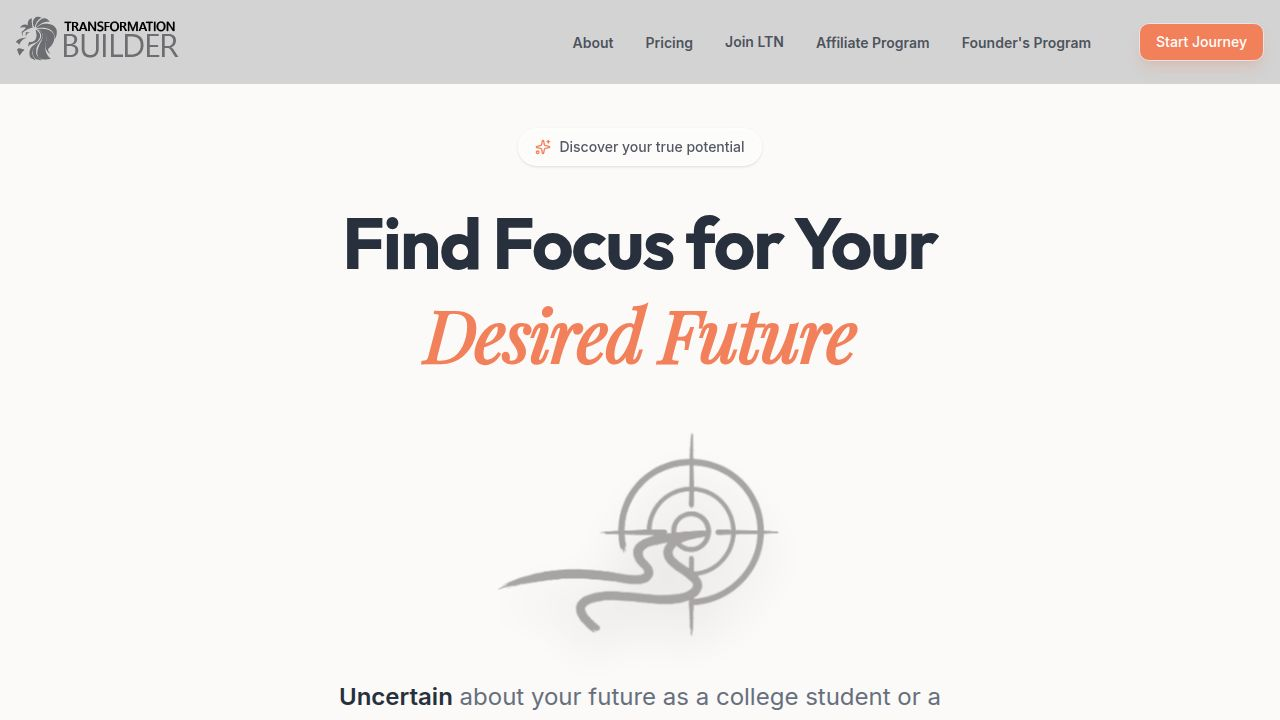
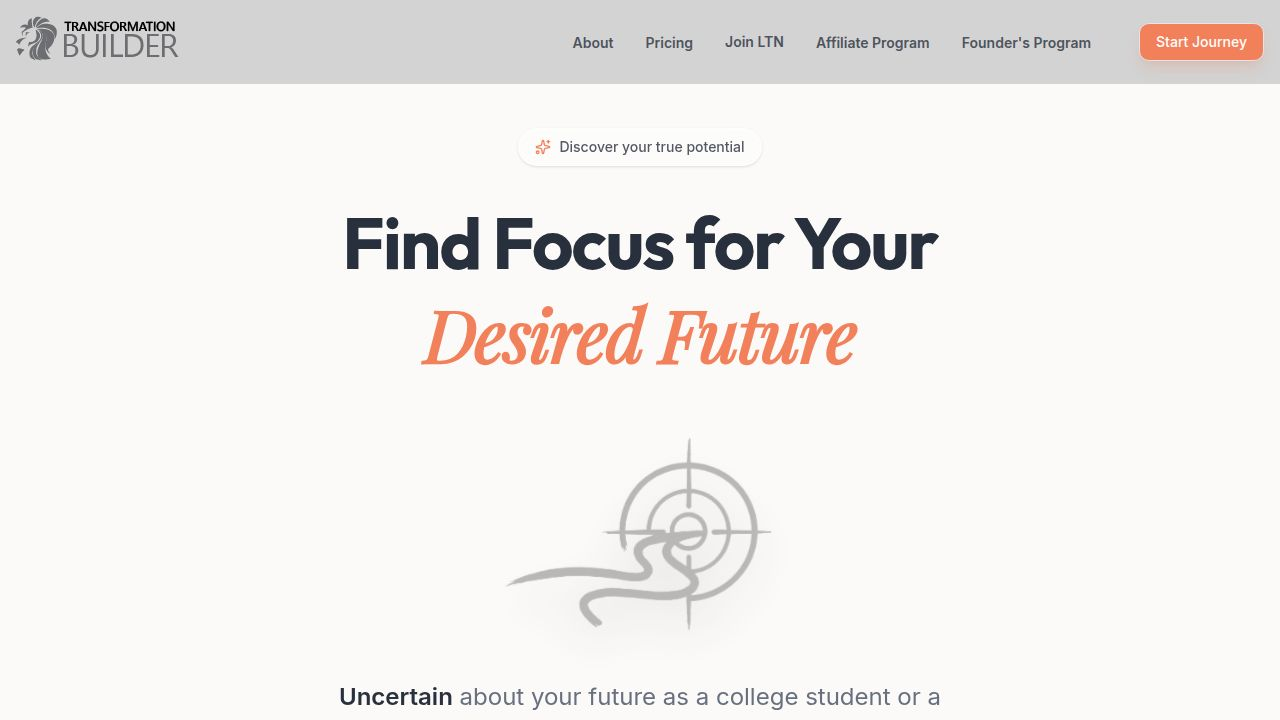
Align "Join LTN" link vertically with other navigation items
Adjusted the 'Join LTN' link in the desktop and mobile navigation bars by adding 'flex items-center' to ensure consistent vertical alignment.

Replit-Commit-Author: Agent
Replit-Commit-Session-Id: 2f27e978-f5d9-495f-af94-c9a188f07dc2
Replit-Commit-Checkpoint-Type: full_checkpoint
Replit-Commit-Event-Id: 7179059c-769f-4c1f-a4c5-8529b2976442
Replit-Commit-Screenshot-Url: https://storage.googleapis.com/screenshot-production-us-central1/e830f26d-e299-42ff-93b1-da7f363f46a7/2f27e978-f5d9-495f-af94-c9a188f07dc2/nSdgTPT
Replit-Helium-Checkpoint-Created: true

Changed region(s): [[0.4062, 0.6111, 0.625, 0.8861], [0.25, 0.9472, 0.375, 0.9778], [0.4688, 0.6722, 0.5, 0.7028]]

diff --git a/client/src/components/navbar.tsx b/client/src/components/navbar.tsx
@@ -52,7 +52,7 @@ export function Navbar() {
             href="https://www.skool.com/life-transformation-network-2320" 
             target="_blank" 
             rel="noopener noreferrer"
-            className="text-sm font-bold text-foreground/80 hover:text-primary transition-colors"
+            className="text-sm font-bold text-foreground/80 hover:text-primary transition-colors flex items-center"
           >
             Join LTN
           </a>
@@ -99,7 +99,7 @@ export function Navbar() {
                   href="https://www.skool.com/life-transformation-network-2320"
                   target="_blank"
                   rel="noopener noreferrer"
-                  className="text-lg font-bold hover:text-primary transition-colors"
+                  className="text-lg font-bold hover:text-primary transition-colors flex items-center"
                 >
                   Join LTN
                 </a>
